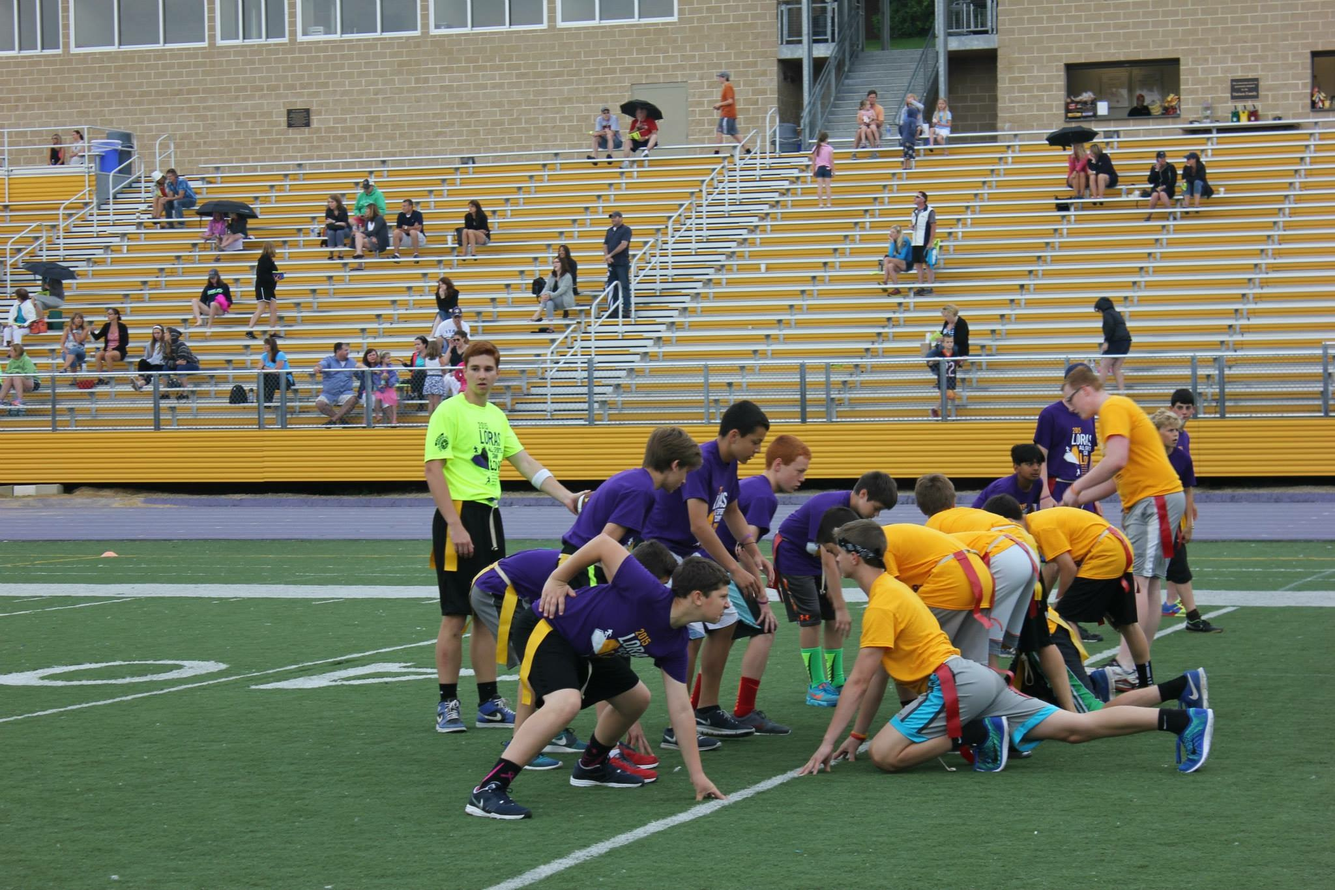
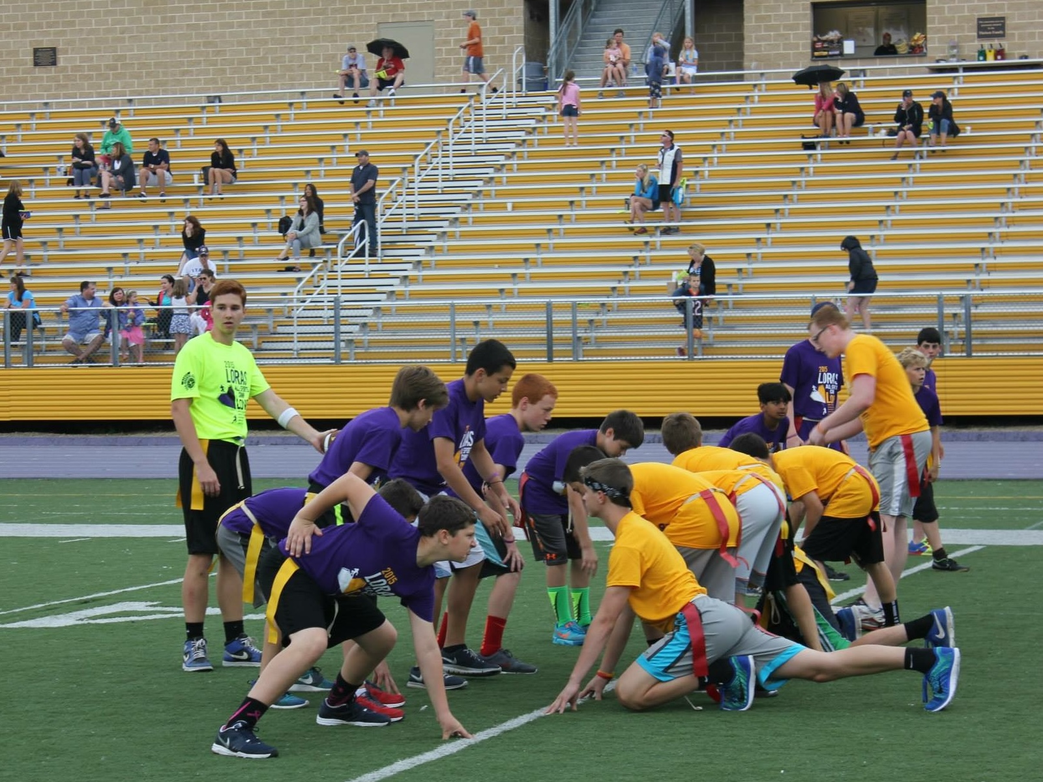
dbq

diff --git a/index.py b/index.py
@@ -808,7 +808,11 @@ def set_display_children(value):
                            style={'height': '35vh', 'max-width': "400px", "margin": "auto"}, center=[25, -40], zoom=1)))
 
     if value == 'Mostar':
-        return ('more info coming soon!',
+        return ('Mostar is a cool little city in Bosnia & Herzegovina. The most famous site here is the old bridge '
+                '(which was destroyed but rebuilt) that dates back to ___. This bridge also inspired the name of '
+                "the city -- 'most' means bridge in many slavic languages. It's even a bit of a rite of passage into "
+                "adulthood for locals to jump off the bridge into river. The area near the bridge is great to walk "
+                'around and explore. Enjoy the old cobblestone streets and the traditional metalwork shops.',
                 html.Br(), html.Br(),
                 html.Div(id="weather", children=weather.update_weather(weather.get_lat_lon(coordinates.mostar_geojson)), className='weather'), html.Br(),
                 dbc.Carousel(
@@ -830,7 +834,7 @@ def set_display_children(value):
     # Bulgaria
     if value == 'Sofia':
         return ('The Bulgarian capital! The history here is really interesting. People have inhabited modern-day '
-                'Sofia for some 6000 years. Rather than an old town, here you have different layers of the city. '
+                'Sofia for some 6,000 years. Rather than an old town, here you have different layers of the city. '
                 'In the center of the city you can find a number of Roman ruins below the current level of the city. '
                 'There is also a Catholic Church, an Orthodox Church, a Mosque, and a synagogue all around the main '
                 'square as well. Bulgaria is the only country that never ended up losing any of their Jewish '
@@ -1682,7 +1686,7 @@ def set_display_children(value):
     if value == 'Berlin':
         lat_lon_str = weather.get_lat_lon(coordinates.ber_geojson)
         return ("'Poor but sexy' has become the city's motto after the mayor said this back in 2003. "
-                "There is never a dull moment in Berlin. It's a very creative, unique, fun, and often quirky city "
+                "There is never a dull moment in Berlin. It's a very creative, unique, fun, quirky and weird city "
                 "with lots of history. "
                 "There is so much to see, especially the Brandenburg Gate, the Berliner Dom (cathedral), the "
                 "Reichstag (national parliament), the Fernsehturm (TV tower), the Memorial to the Murdered Jews of "
@@ -1695,7 +1699,7 @@ def set_display_children(value):
                 "to wait a long time in line and know that there is a good chance you will not be let in -- it's part "
                 "of the funky culture that preserves the hype and exclusive aura of the club. For other club "
                 "options, try Watergate, Tresor, Club der Visionäre, or Ritter Butzke. For a really fun bar that "
-                "isn't exactly a club, go to Minimal bar. ",
+                "isn't exactly a club, go to Minimal Bar or Bohnengold. ",
                 html.Br(), html.Br(),
                 "Beyond the clubs, "
                 "there are tons of concerts here every day and there are always "
@@ -1717,7 +1721,7 @@ def set_display_children(value):
                 "vietnamese food (the duck at New Day is crazy good). For German food, 'Max & Moritz' is a "
                 "really cool restaurant with great food and beers. There is also the Hofbräuhaus Berlin for very "
                 "fun and festive Bavarian food, beers, live music, and good vibes. There is also a lot of "
-                "great middle eastern food, especially yemenite food at the 'Jemenitisches Restaurant' "
+                "great middle eastern food, especially yemeni food at the 'Jemenitisches Restaurant' "
                 "and Syrian food at the 'Aleppo Supper Club.' And last but definitely not least -- Christmas "
                 "time is magical here! There are tons of Christmas markets all over the city, and mulled wine "
                 "(Glühwein) also available all over the city.",
@@ -4894,6 +4898,10 @@ def set_display_children(value):
                     items=[
                         {"src": "assets/usa-ia/dbq.JPG"},
                         {"src": "assets/usa-ia/dbq1.JPG"},
+                        {"src": "assets/usa-ia/dbq2.JPG"},
+                        {"src": "assets/usa-ia/dbq3.JPG"},
+                        {"src": "assets/usa-ia/dbq4.JPG"},
+                        {"src": "assets/usa-ia/dbq5.JPG"},
                     ],
                     interval=2000,
                     ride="carousel",
